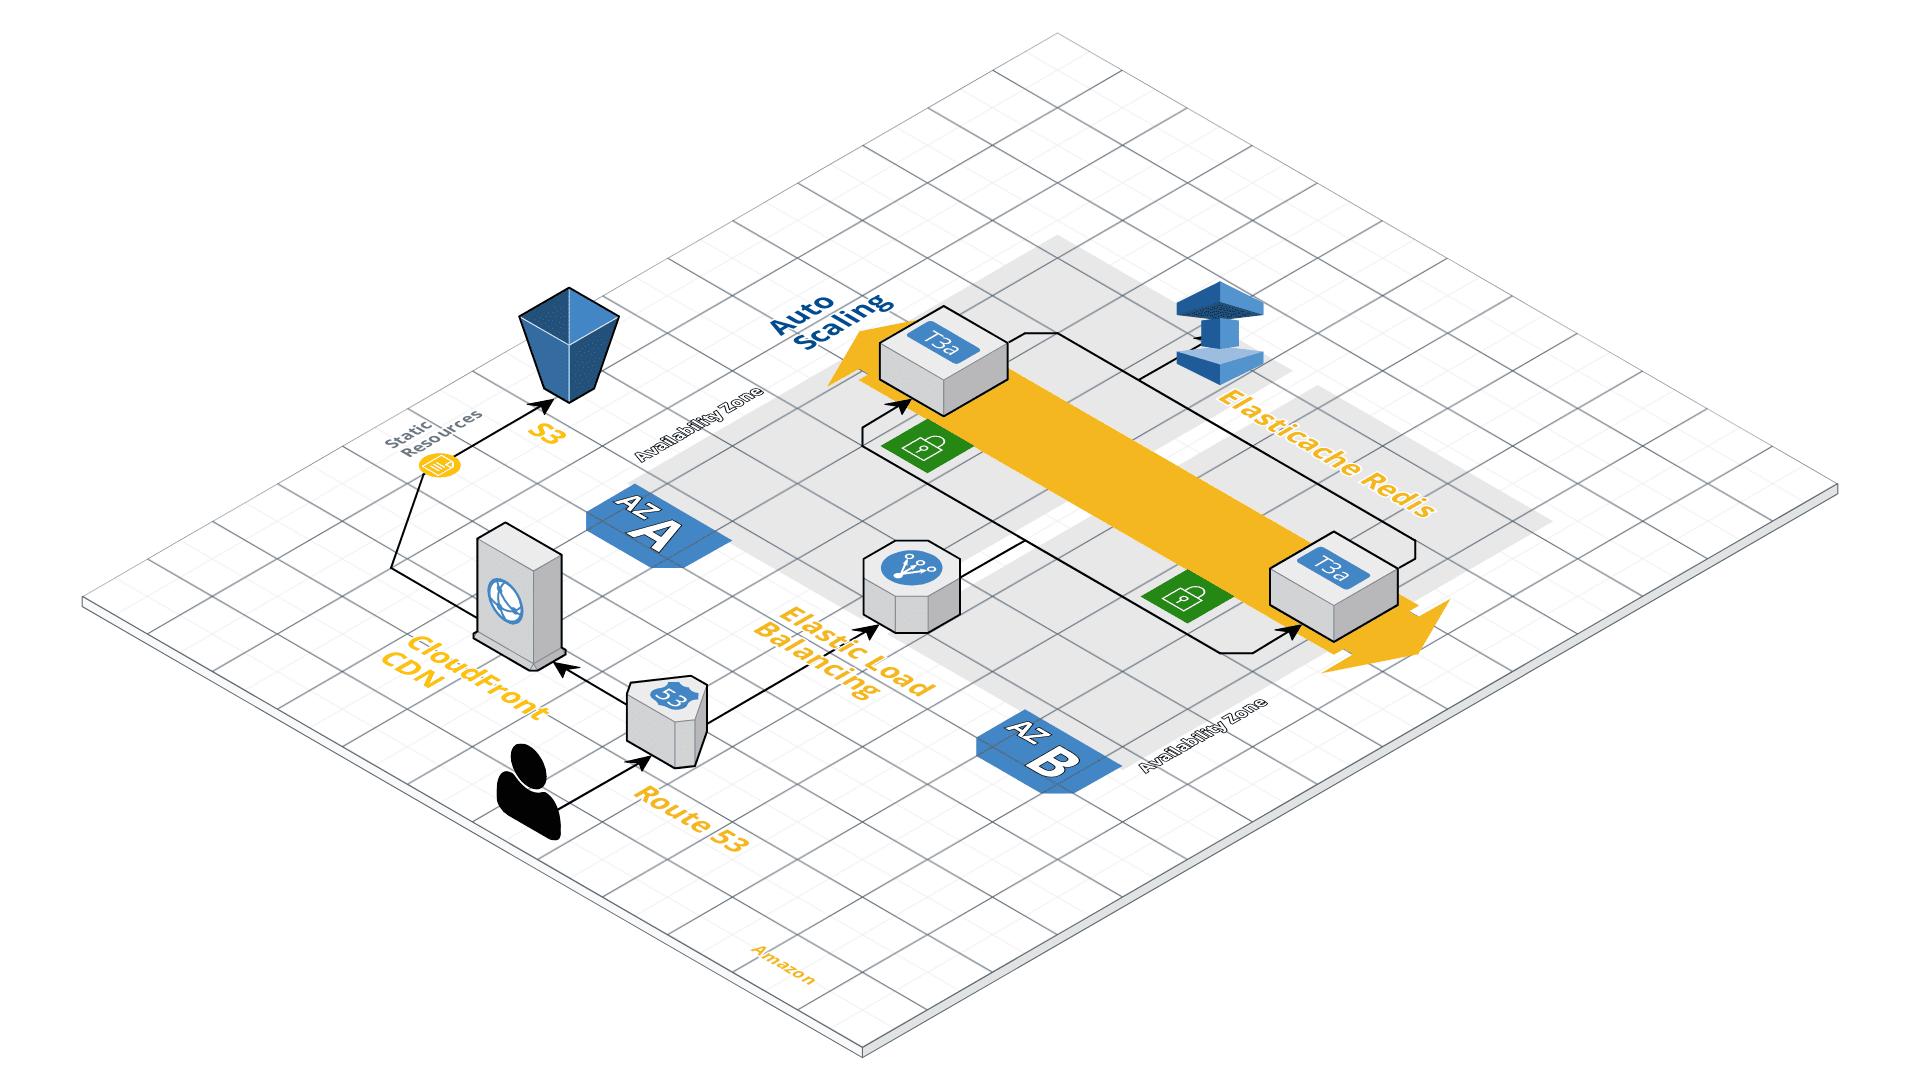
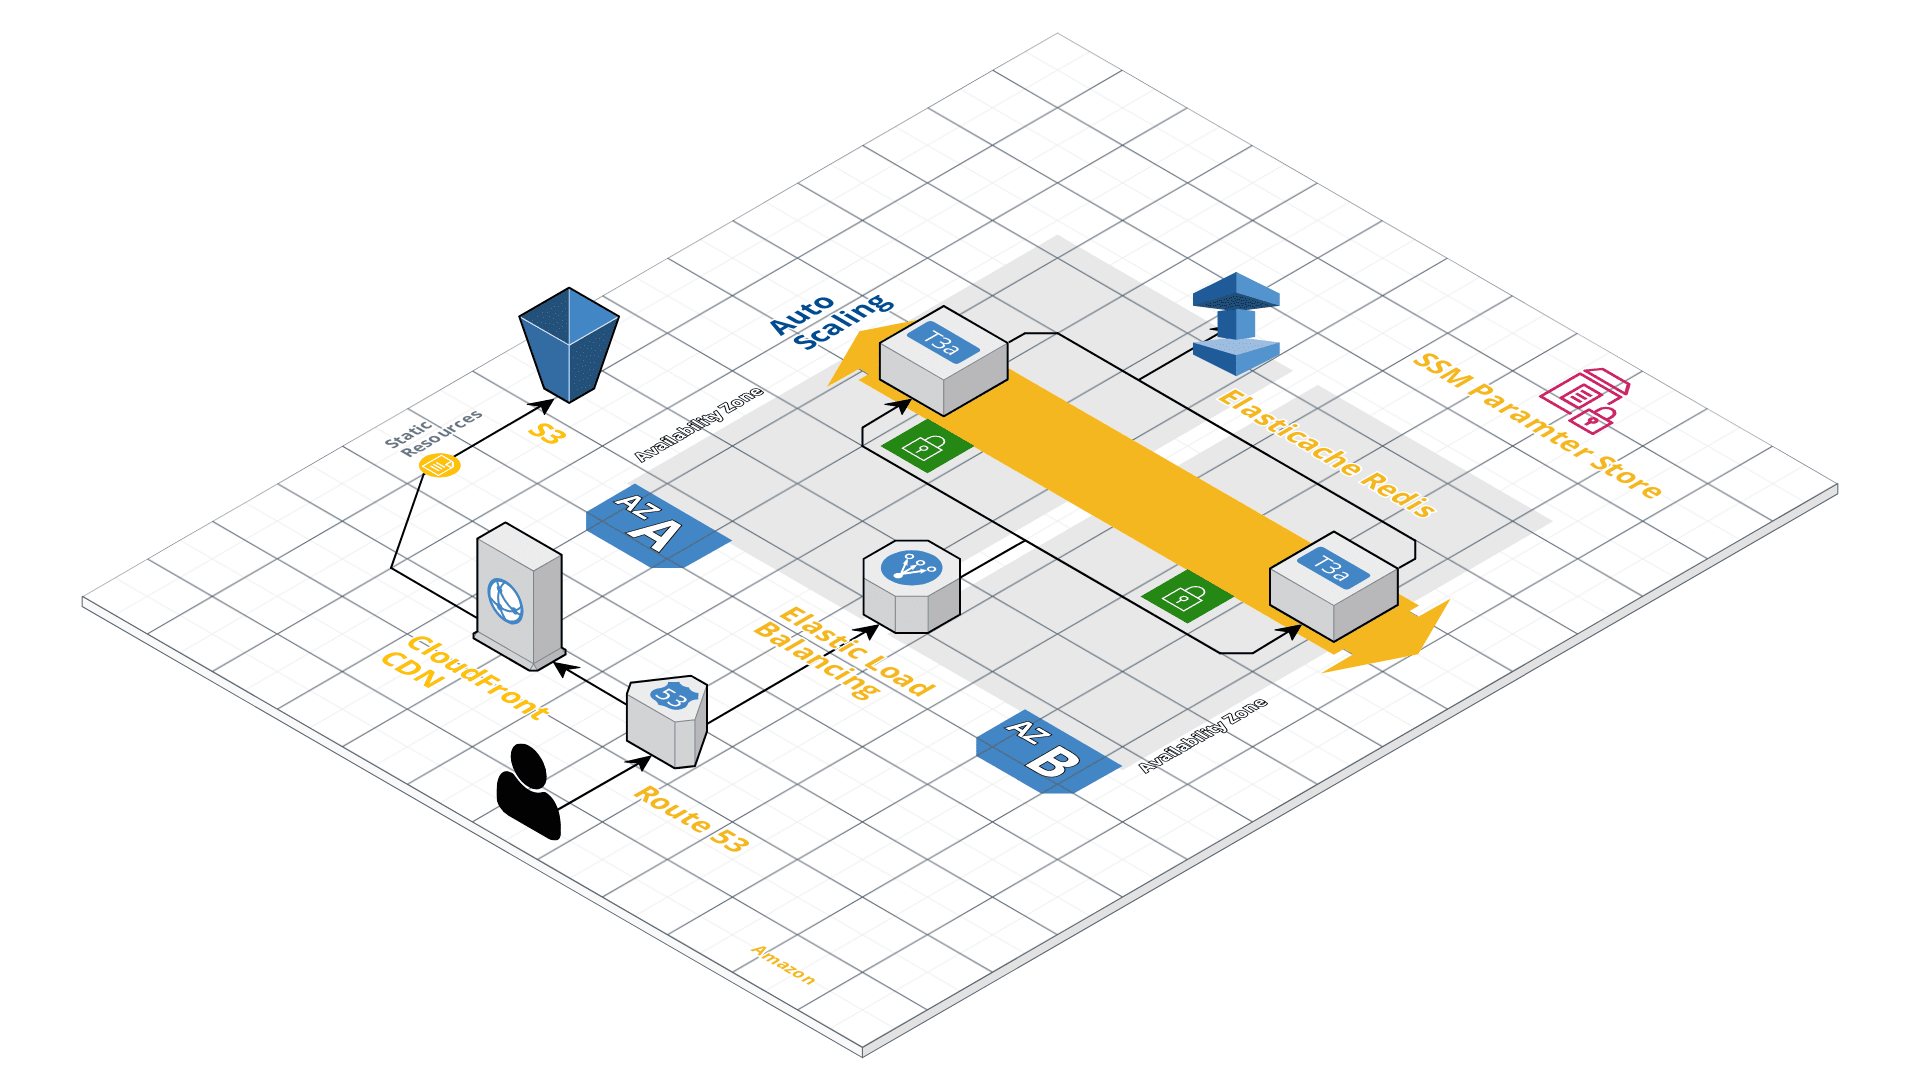
update readme

Changed region(s): [[0.5938, 0.2444, 0.6875, 0.3667], [0.7812, 0.3361, 0.875, 0.4583], [0.75, 0.3361, 0.7812, 0.3667]]

diff --git a/README.md b/README.md
@@ -12,7 +12,7 @@ The project has 3 building block:
 
 ### Backend
 
-An express REST API that will server the react application with data of places coming from [My Helsinki Open API](https://open-api.myhelsinki.fi/doc). The API also connects to a Redis Elasticache node on AWS for response caching
+An express REST API that will server the react application with data of places coming from [My Helsinki Open API](https://open-api.myhelsinki.fi/doc). The API also connects to a Redis Elasticache node on AWS for response caching. API secrets are stored on SSM parameter store
 
 ### Frontend-React
 
